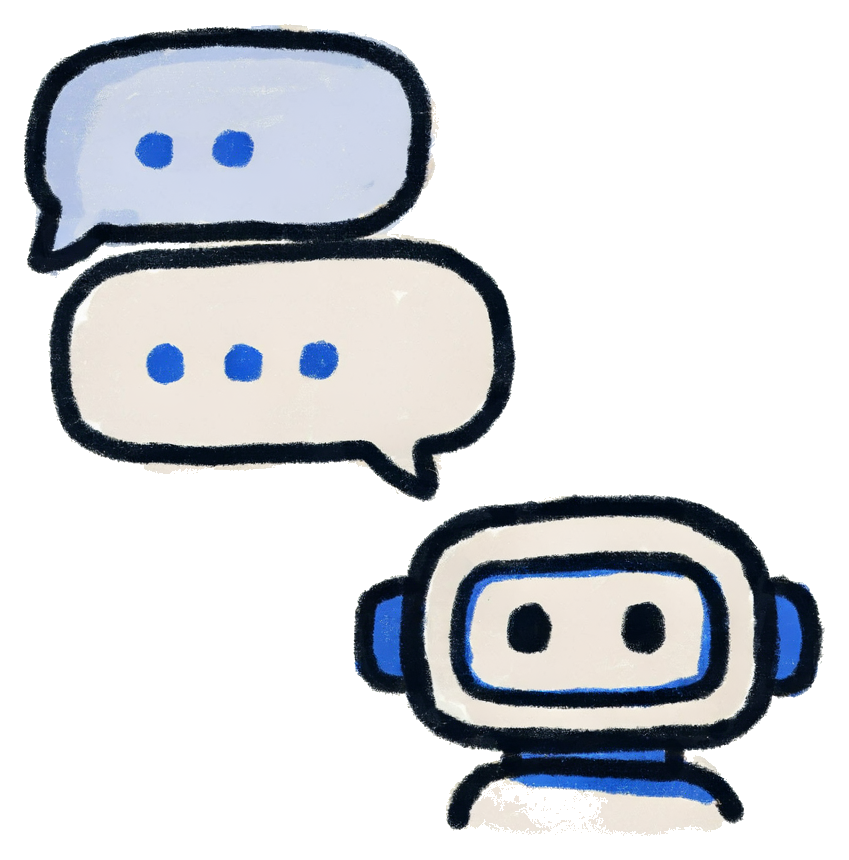
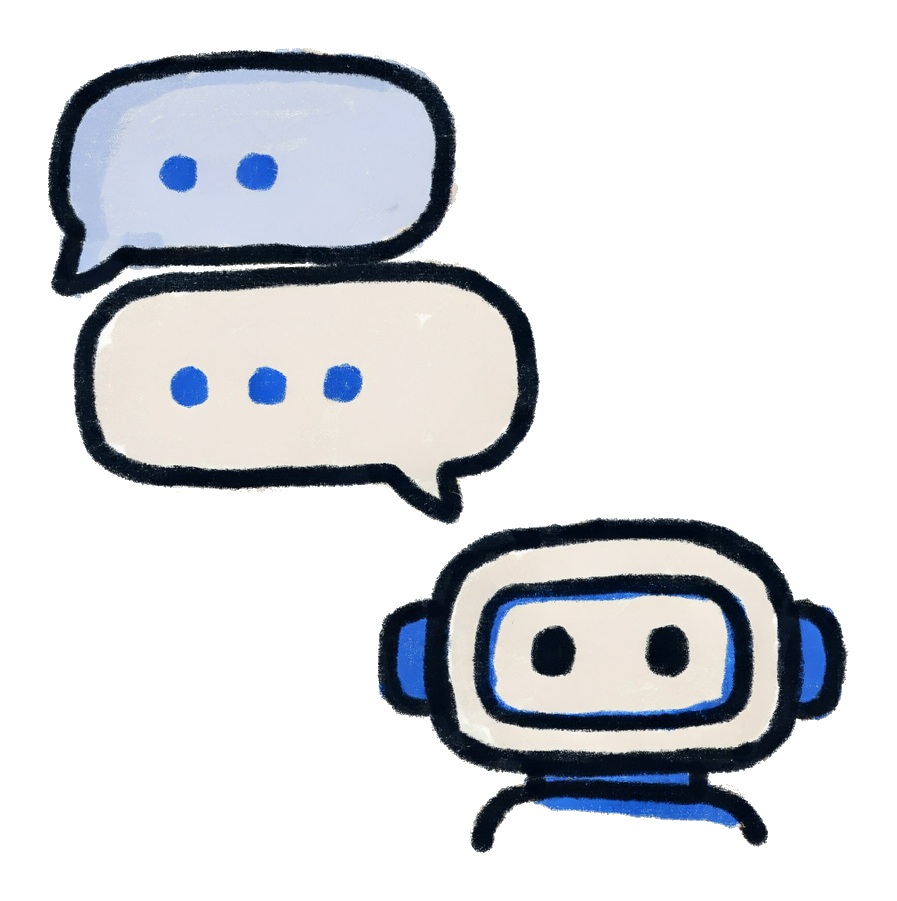
Blog-illustraties batch: 48 chalky hero-bands (thematisch gemapt op library-concepten), conventie /illustrations/blog/<slug>.png, JSON-LD/OG image per post

Changed region(s): [[0.0306, 0.0302, 0.98, 0.9674], [0.1531, 0.393, 0.3981, 0.4535], [0.1531, 0.1512, 0.3062, 0.2116]]

diff --git a/app/blog/[slug]/page.tsx b/app/blog/[slug]/page.tsx
@@ -21,7 +21,7 @@ export function generateStaticParams() {
 export function generateMetadata({ params }: Props): Metadata {
   const post = blogPosts.find((p) => p.slug === params.slug);
   if (!post) return {};
-  const ogImage = `${baseUrl}${post.illustration ?? "/brand/cover-dark.png"}`;
+  const ogImage = `${baseUrl}${post.illustration ?? `/illustrations/blog/${post.slug}.png`}`;
   return {
     title: post.title,
     description: post.excerpt,
@@ -115,6 +115,10 @@ export default function BlogPostPage({ params }: Props) {
   const wordCount = post.content.split(/\s+/).length;
   const readingTimeMinutes = Math.max(1, Math.round(wordCount / 200));
 
+  // Convention: every post has a chalky hero-band at /illustrations/blog/<slug>.png
+  // (explicit `illustration` field overrides it).
+  const illustration = post.illustration ?? `/illustrations/blog/${post.slug}.png`;
+
   const breadcrumbJsonLd = {
     "@context": "https://schema.org",
     "@type": "BreadcrumbList",
@@ -130,7 +134,7 @@ export default function BlogPostPage({ params }: Props) {
     "@type": "BlogPosting",
     headline: post.title,
     description: post.excerpt,
-    image: `${baseUrl}${post.illustration ?? "/brand/cover-dark.png"}`,
+    image: `${baseUrl}${illustration}`,
     author: {
       "@type": "Person",
       name: "Kaan Arslan",
@@ -214,22 +218,20 @@ export default function BlogPostPage({ params }: Props) {
       </section>
 
       {/* Hero-band illustration (wide, not a square) */}
-      {post.illustration && (
-        <section className="relative bg-cream">
-          <div className="max-w-content mx-auto px-6 sm:px-8 lg:px-10">
-            <div className="relative w-full aspect-[16/9] md:aspect-[21/8] rounded-2xl bg-cream-deep/60 ring-1 ring-slate-950/5 overflow-hidden">
-              <Image
-                src={post.illustration}
-                alt=""
-                fill
-                sizes="(max-width: 1024px) 100vw, 1152px"
-                className="object-contain p-6 md:p-10"
-                priority
-              />
-            </div>
+      <section className="relative bg-cream">
+        <div className="max-w-content mx-auto px-6 sm:px-8 lg:px-10">
+          <div className="relative w-full aspect-[16/9] md:aspect-[21/8] rounded-2xl bg-cream-deep/60 ring-1 ring-slate-950/5 overflow-hidden">
+            <Image
+              src={illustration}
+              alt=""
+              fill
+              sizes="(max-width: 1024px) 100vw, 1152px"
+              className="object-contain p-6 md:p-10"
+              priority
+            />
           </div>
-        </section>
-      )}
+        </div>
+      </section>
 
       <section className="relative bg-cream py-12 md:py-20">
         <div className="max-w-narrow mx-auto px-6 sm:px-8 lg:px-10">
